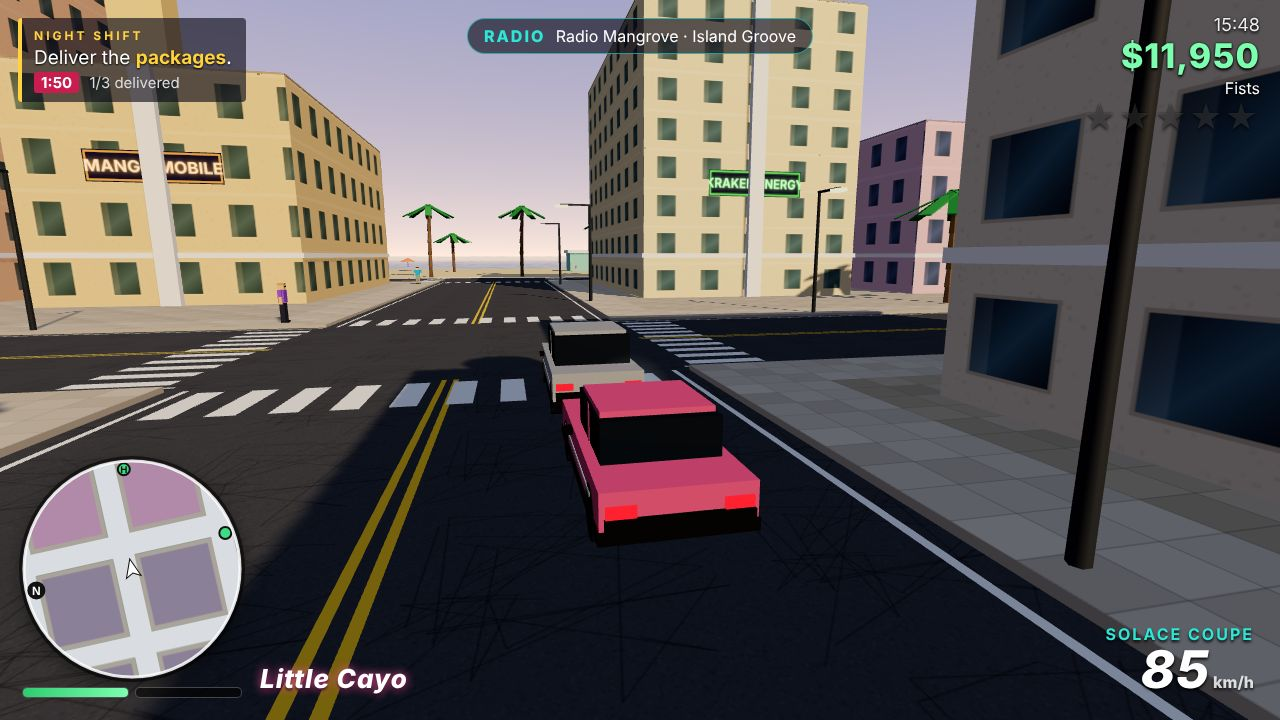
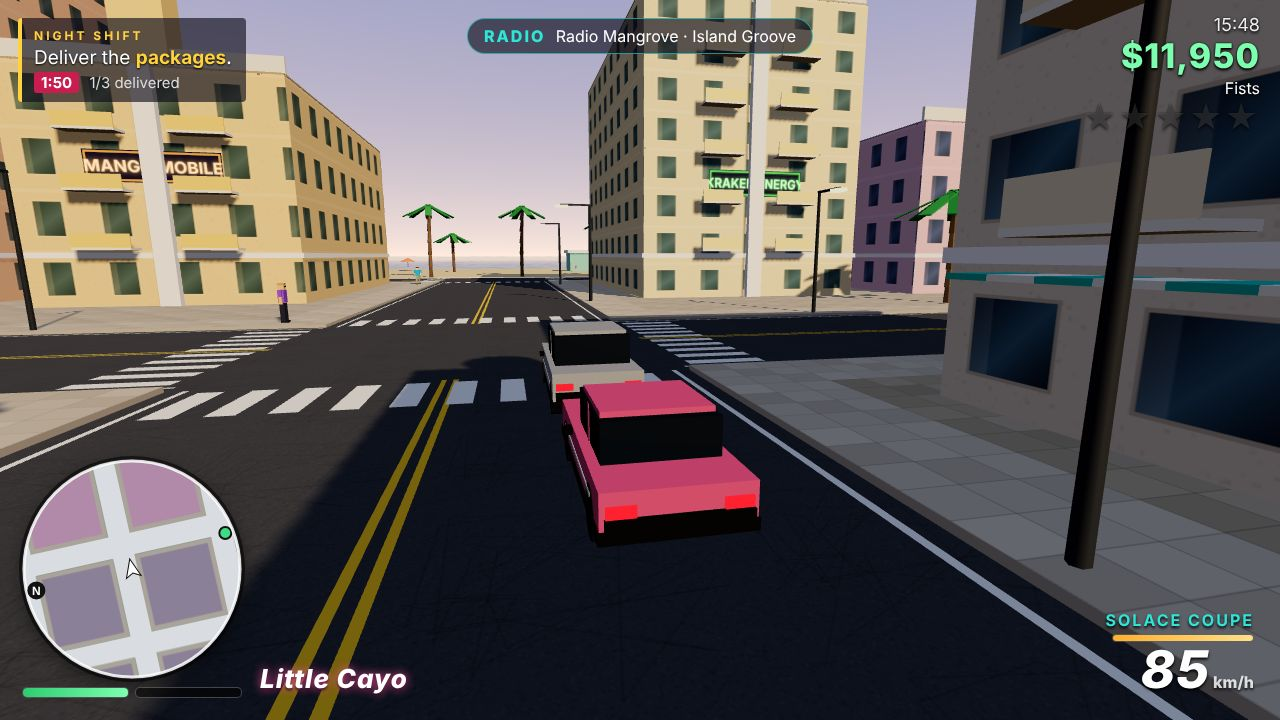
Building details (stepped towers, balconies, awnings, rooftop pools), README
Claude-Session: https://claude.ai/code/session_01Ptu9xu8GQGpvqZFmJZumfW

diff --git a/game/src/cityMeshes.js b/game/src/cityMeshes.js
@@ -134,9 +134,17 @@ export function buildBuildings(scene, plan, collision) {
       continue;
     }
     const tile = tileByStyle[b.style];
-    batch.addTiledBox(b.x, 0.15 + b.h / 2, b.z, b.w, b.h, b.d, color, tile, b.style, facade.styles);
+    if (b.kind === 'tower' && b.h > 55 && !b.crown) {
+      // a stepped tower: a full-footprint base and a slimmer shaft above it
+      const baseH = Math.round(b.h * 0.55 / tile) * tile || tile;
+      batch.addTiledBox(b.x, 0.15 + baseH / 2, b.z, b.w, baseH, b.d, color, tile, b.style, facade.styles);
+      batch.addTiledBox(b.x, 0.15 + baseH + (b.h - baseH) / 2, b.z, b.w * 0.72, b.h - baseH, b.d * 0.72, color.clone().offsetHSL(0, 0.04, 0.04), tile, b.style, facade.styles);
+    } else {
+      batch.addTiledBox(b.x, 0.15 + b.h / 2, b.z, b.w, b.h, b.d, color, tile, b.style, facade.styles);
+    }
     collision.addBox(b.x - b.w / 2, b.x + b.w / 2, b.z - b.d / 2, b.z + b.d / 2, b.h + 0.15, 'building');
     const roofY = 0.15 + b.h;
+    addBuildingDetails(rooftop, b, color, rand);
     // ground-floor shopfront band and awning for apartments and hotels
     if (b.kind === 'apartment' || b.kind === 'hotel' || b.kind === 'venue') {
       rooftop.addBox(b.x, 0.15 + 3.3, b.z, b.w + 0.3, 0.35, b.d + 0.3, new THREE.Color('#ffffff'));
@@ -175,6 +183,53 @@ export function buildBuildings(scene, plan, collision) {
   roofMesh.castShadow = true; roofMesh.receiveShadow = true;
   scene.add(mesh, roofMesh);
   return { material };
+}
+
+const AWNINGS = ['#ff5d73', '#2ec4b6', '#ffb703', '#3a86ff', '#8ac926', '#ff8fab'];
+
+/** Balconies with railings, striped shop awnings and rooftop pools: the small things that make
+ * a box read as a building in a beach town. */
+function addBuildingDetails(batch, b, color, rand) {
+  const white = new THREE.Color('#f7f3ea');
+  if (b.kind === 'apartment' || b.kind === 'hotel') {
+    const floors = Math.floor(b.h / STOREY);
+    const along = b.kind === 'hotel' ? [[-1, 0]] : [[0, 1], [0, -1]];
+    for (const [fx, fz] of along) {
+      for (let f = 1; f < floors; f += 1) {
+        const y = 0.15 + f * STOREY + 0.1;
+        for (const off of b.kind === 'hotel' ? [-9, -3, 3, 9] : [-b.w / 4, b.w / 4]) {
+          if (fx) { // west face (hotels look out over the street toward the city)
+            const x = b.x + fx * (b.w / 2 + 0.6); const z = b.z + off;
+            if (Math.abs(off) > b.d / 2 - 1.5) continue;
+            batch.addBox(x, y, z, 1.2, 0.16, 3.2, white);
+            batch.addBox(x + fx * 0.55, y + 0.5, z, 0.06, 0.9, 3.2, color.clone().offsetHSL(0, 0.15, -0.1));
+          } else {
+            const x = b.x + off; const z = b.z + fz * (b.d / 2 + 0.6);
+            batch.addBox(x, y, z, 3.2, 0.16, 1.2, white);
+            batch.addBox(x, y + 0.5, z + fz * 0.55, 3.2, 0.9, 0.06, color.clone().offsetHSL(0, 0.15, -0.1));
+          }
+        }
+      }
+    }
+  }
+  if (b.kind === 'apartment' || b.kind === 'venue') {
+    // a striped awning on two faces at shop level
+    const awning = new THREE.Color(rand.pick(AWNINGS));
+    for (const fz of [1, -1]) {
+      const z = b.z + fz * (b.d / 2 + 0.75);
+      const n = Math.max(2, Math.floor(b.w / 1.2));
+      for (let k = 0; k < n; k += 1) {
+        const x = b.x - b.w * 0.4 + (k + 0.5) * (b.w * 0.8 / n);
+        batch.addBox(x, 3.05, z, b.w * 0.8 / n, 0.12, 1.5, k % 2 ? white : awning, { rotY: 0 });
+      }
+    }
+  }
+  if (b.kind === 'hotel') {
+    const roofY = 0.15 + b.h;
+    batch.addBox(b.x + 3, roofY + 0.15, b.z, b.w * 0.45, 0.3, b.d * 0.55, new THREE.Color('#9fe7f5'));
+    batch.addBox(b.x + 3, roofY + 0.1, b.z, b.w * 0.5, 0.2, b.d * 0.62, white);
+    batch.addBox(b.x - b.w / 2 + 0.4, roofY + 0.6, b.z, 0.3, 1.2, b.d, white);
+  }
 }
 
 /** Neon shop signs and rooftop billboards, each a small textured plane. */

diff --git a/game/src/shots.js b/game/src/shots.js
@@ -81,6 +81,8 @@ const SCENES = {
     game.camera.pitch = 0.3;
     game.camera.freeLookTimer = 100;
     game.camera.snap();
+    game.hud.toasts.innerHTML = '';
+    game.hud.toast('Wanted: ~Car alarm tripped~', 'bad');
   },
 
   /** An afternoon delivery run toward the beach hotels and the open sea. */

diff --git a/README.md b/README.md
@@ -1,0 +1,63 @@
+# Neon Harbor
+
+An original open-world crime game for the browser, set in **Palmira Bay**, a fictional sun-soaked
+Gulf-coast city of pastel hotels, glass towers, palm-lined beach boulevards and a working harbor.
+Built with three.js (vendored as its minified ES module build) and plain JavaScript modules, no
+build step. Every model, texture, sound and note of music is generated by the game's own code.
+
+Rae Castellan is back in town after three years inside. Help Marisol "Mari" Vega save her bar,
+the Salt & Lime, from developer and crime boss Lucien Brandt, with mechanic Dez Okafor's help.
+
+## Play
+
+    node serve.ts            # then open http://localhost:8080
+
+| Key | Action |
+| --- | --- |
+| W A S D | walk / drive |
+| Mouse | look around (click the game to capture the mouse) |
+| Shift | sprint |
+| Space | jump / handbrake |
+| E or F | enter, steal or exit a car |
+| Left / right click | punch or shoot / aim |
+| Q, wheel, 1-3 | switch weapon |
+| R | change radio station |
+| H | horn |
+| T | look for fares in a Bay Cab |
+| Enter | skip dialogue |
+| Esc or M | pause menu, map, save and load |
+
+## Features
+
+- A 9 x 8 block city: downtown towers, residential streets with shops and neon, beachfront
+  hotels on Coral Parade, Mangrove Park, Sunset Plaza, docks with cranes and containers, a marina,
+  a beach with umbrellas and lifeguard towers, a lighthouse, and the sea.
+- A 24-hour day/night cycle with golden-hour sunsets, stars, lit windows, street lamps and neon.
+- Traffic that follows lanes and turns at junctions; pedestrians who stroll, flee and fall.
+- Seven original vehicle models with arcade handling, handbrake drifts, skid marks, tyre smoke,
+  damage, fire and explosions; steal any car (drag the driver out) and drive with a chase camera.
+- A five-star wanted level: crimes raise it, Bay PD cruisers route through the streets to chase,
+  ram and shoot; officers get out to arrest or fight; stay out of sight to lose stars.
+- Five story missions with dialogue, markers and objectives (driving, stealing, losing the cops,
+  shootouts, pickups, timed deliveries, a heist finale), plus the Sunset Sprint street race,
+  Bay Cab taxi fares and twelve hidden Golden Conches.
+- Fists, pistol and SMG; health, armour, cash and weapon pickups; FLATLINED and CUFFED respawns.
+- HUD with rotating minimap and blips, money, clock, stars, weapon and ammo, health and armour,
+  objective panel, speedometer and radio; title screen, pause menu with full map, save/load.
+- WebAudio engine, sirens, gunfire, crashes and jingles, and three procedural radio stations.
+
+## Screenshots
+
+`node tools/shots.mjs` (with `node serve.ts --port 8080` running) renders the scenes listed in
+`shots.json` from `game/index.html?shot=<name>`. `node tools/playtest.mjs` runs an automated
+play-through and reports console errors.
+
+## Layout
+
+`game/src/` holds one module per job: `cityLayout.js` (the plan), `cityMeshes.js` and `props.js`
+(geometry), `skyAndWater.js` and `dayNight.js` (lighting), `vehicles.js` and `vehicleModels.js`,
+`traffic.js`, `pedestrians.js`, `police.js`, `wanted.js`, `combat.js`, `missions.js`, `story.js`,
+`activities.js`, `pickups.js`, `markers.js`, `hud.js`, `minimap.js`, `menus.js`, `save.js`,
+`audio.js`, `radio.js`, `effects.js`, `cameraRig.js`, `player.js`, `game.js`, `main.js`, `shots.js`.
+
+License: MIT. three.js is MIT licensed (see `game/vendor/three-LICENSE.txt`).
